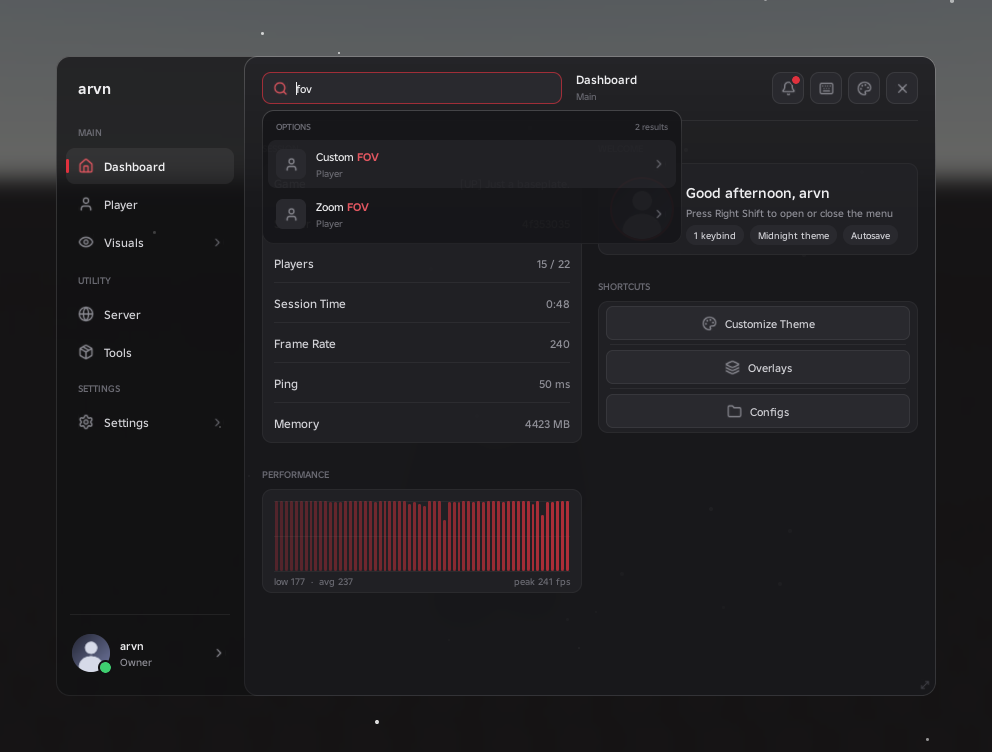
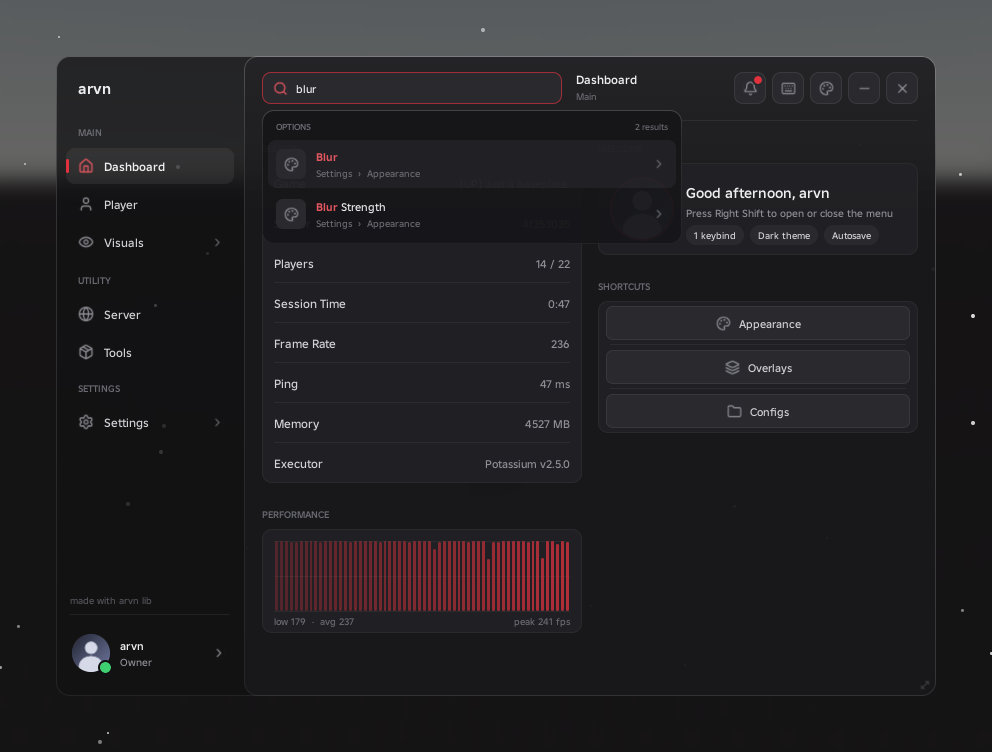
Minimize, executor, cleaner settings

diff --git a/docs/getting-started.md b/docs/getting-started.md
@@ -18,7 +18,7 @@ local Window = Arvn:CreateWindow({
 ```
 
 - `Title` shows in the sidebar and the watermark.
-- `Author` and `Version` show in Settings > Interface > About.
+- `Author` and `Version` show in Settings > General > About.
 - `Folder` is the folder in `workspace` where the script's settings and configs are saved. Give every script its own folder.
 
 The menu opens and closes with **Right Shift**. Change the default with `MenuKey = "Insert"`.
@@ -110,9 +110,11 @@ local stop = Arvn:Loop(function() end, 1)
 
 Every window comes with:
 
-- Settings pages: Interface, Theme, Overlays, Personalize, Sounds and Configs
+- Settings pages: General, Appearance, Overlays, Profile, Sounds and Configs
 - a watermark and a keybind list
 - a UI button on screen that opens and closes the menu
+- a minimize button next to the close button
+- the executor name in the watermark and in About
 - search, notifications, sounds and autosave
 
 Turn any of them off:
@@ -126,7 +128,7 @@ Arvn:CreateWindow({
 	Search = false,
 	Sounds = false,
 	Notifications = false,
-	Pages = {Personalize = false, Sounds = false},
+	Pages = {Profile = false, Sounds = false},
 })
 ```
 
@@ -181,7 +183,7 @@ Arvn:CreateWindow({
 })
 ```
 
-They show in Settings > Interface > About, next to the arvn lib credit.
+They show in Settings > General > About, next to the arvn lib credit.
 
 ## Next
 

diff --git a/docs/customization.md b/docs/customization.md
@@ -7,7 +7,7 @@ Groups, tabs, sections and elements can be changed at any time, including the bu
 ```lua
 Window:GetGroup("Main"):SetName("Home")
 Window:GetGroup("Settings"):SetName("Config")
-Window:GetTab("Theme"):SetName("Colors")
+Window:GetTab("Appearance"):SetName("Look")
 Window:GetTab("Sounds"):SetVisible(false)
 
 Player:SetName("Character"):SetIcon("person-standing")
@@ -29,7 +29,7 @@ Built-in pages can also be renamed when the window is created:
 Arvn:CreateWindow({
 	Title = "My Script",
 	Groups = {Main = "Home", Settings = "Config"},
-	Pages = {Theme = "Colors", Personalize = false},
+	Pages = {Appearance = "Look", Profile = false},
 })
 ```
 
@@ -56,7 +56,7 @@ Arvn.Theme:Set("Ocean")
 
 Colors you leave out are worked out from the others.
 
-Players can also make their own theme in Settings > Theme > Colors. Changing any color there switches the menu to the Custom theme.
+Players can also make their own theme in Settings > Appearance > Colors. Changing any color there switches the menu to the Custom theme.
 
 Change one color on the current theme:
 

diff --git a/docs/reference.md b/docs/reference.md
@@ -62,6 +62,7 @@
 | `SetTitle`, `SetSubtitle`, `SetAuthor`, `SetLogo`, `SetSize(w, h)`, `SetBackground({...})` | change the window |
 | `SetTheme`, `SetAccent`, `SetFont`, `SetScale`, `SetMenuKey` | change the look and key |
 | `Toggle(open)`, `IsOpen()`, `Center()`, `OpenSearch()` | control the menu |
+| `Minimize(bool)`, `IsMinimized()` | shrink the window to its title bar or bring it back |
 | `OnOpen(fn)`, `OnClose(fn)` | run a function when the menu opens or closes |
 | `LockAll(reason)`, `UnlockAll()` | disable every element, for example until a key is checked |
 | `SaveConfig(name)`, `LoadConfig(name)` | configs |

diff --git a/docs/elements.md b/docs/elements.md
@@ -44,6 +44,16 @@ Section:Slider({Name = "FOV", Min = 30, Max = 120, Default = 70, Step = 1, Suffi
 
 `Live = false` runs the callback only when the mouse is released.
 
+Change the range at any time:
+
+```lua
+local fov = Section:Slider({Name = "FOV", Min = 30, Max = 120, Default = 70})
+fov:SetMax(1000)
+fov:SetMin(1)
+fov:SetStep(5)
+fov:SetSuffix(" studs")
+```
+
 ## Dropdown
 
 ```lua
